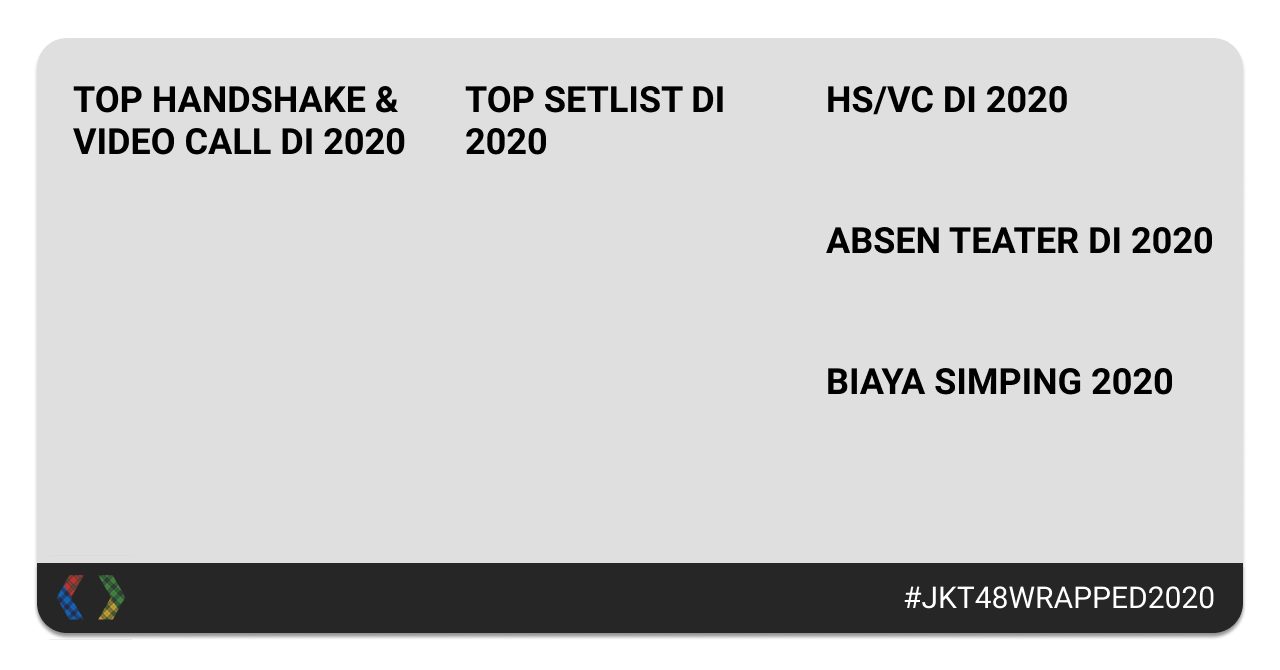
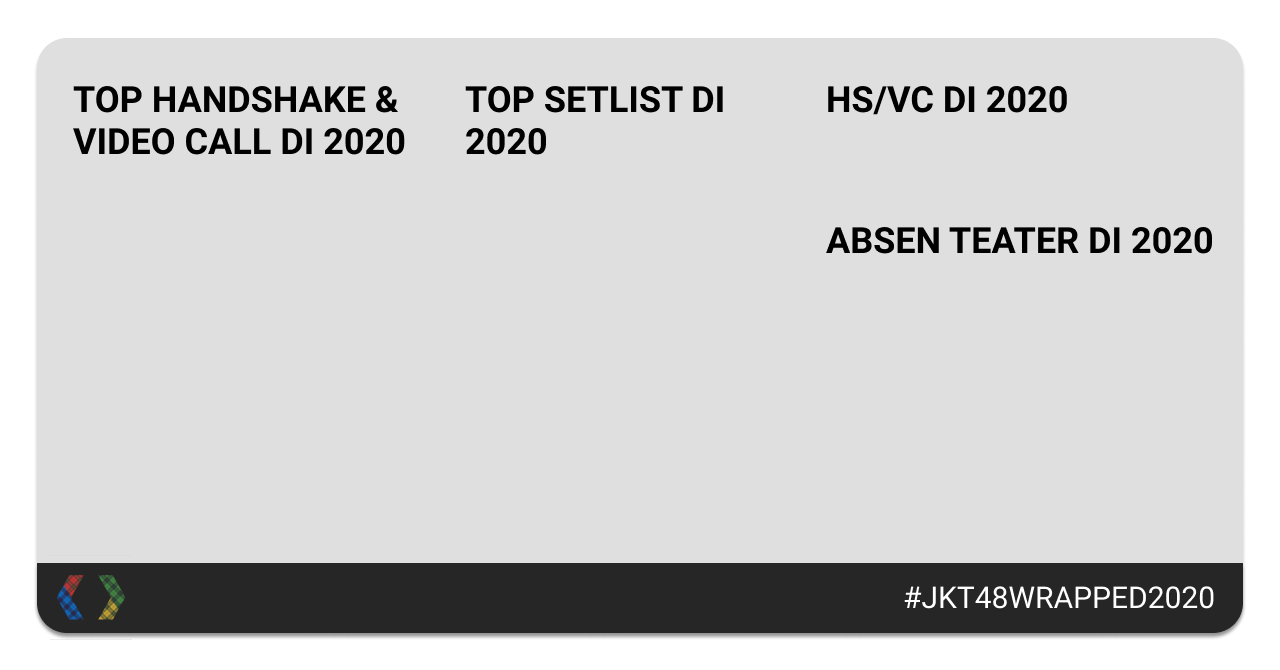
Removing totelExpense and change image to base64

Changed region(s): [[0.625, 0.5373, 0.9375, 0.597]]

diff --git a/libraries/image-generator.js b/libraries/image-generator.js
@@ -1,5 +1,6 @@
 const textToImage = require('text-to-image');
 const jimp = require('jimp');
+const { write } = require('jimp');
 
 /**
  * Generate image for og:image, and write image into folder outputs
@@ -8,10 +9,9 @@ const jimp = require('jimp');
  * @param {string} data.hsDetailText
  * @param {string} data.setlistDetailText
  * @param {string} data.theaterCountText
- * @param {string} data.totalExpenseText
  * @param {string} data.userNameText
- * @param {string} data.hsImage
- * @param {string} data.setlistImage
+ * @param {string} data.hsImage in base64
+ * @param {string} data.setlistImage in base64
  * 
  * @returns {Buffer} image
  */
@@ -45,15 +45,7 @@ const generateImage = async (data) => {
 		fontFamily: 'Roboto',
 		fontWeight: 'bold',
 		customHeight: '60',
-	});	
-	const totalExpense = await textToImage.generate(data.totalExpenseText, {
-		margin: 0,
-		bgColor: '#ffffff00',
-		fontSize: 50,
-		fontFamily: 'Roboto',
-		fontWeight: 'bold',
-		customHeight: '50',
-	});	
+	});
 	const userName = await textToImage.generate(data.userNameText, {
 		margin: 0,
 		bgColor: '#ffffff00',
@@ -63,9 +55,9 @@ const generateImage = async (data) => {
 		maxWidth: 700,
 	});
 
-	const baseImage = await jimp.read('../assets/base.png');
-	const hsImage = await jimp.read(data.hsImage);
-	const setlistImage = await jimp.read(data.setlistImage);
+	const baseImage = await jimp.read('./assets/base.png');
+	const hsImage = await jimp.read(Buffer.from(data.hsImage, 'base64'))
+	const setlistImage = await jjimp.read(Buffer.from(data.setlistImage, 'base64'))
 	
 	hsImage.crop(0, 0, hsImage.getWidth(), hsImage.getWidth())
 		.circle();
@@ -79,7 +71,6 @@ const generateImage = async (data) => {
 		.composite(await jimp.read(Buffer.from((setlistDetail.split(','))[1], 'base64')), 460, 465)
 		.composite(await jimp.read(Buffer.from((hsCount.split(','))[1], 'base64')), 824, 135)
 		.composite(await jimp.read(Buffer.from((theaterCount.split(','))[1], 'base64')), 824, 275)
-		.composite(await jimp.read(Buffer.from((totalExpense.split(','))[1], 'base64')), 824, 420)
 		.composite(await jimp.read(Buffer.from((userName.split(','))[1], 'base64')), 145, 585)
 		.getBuffer(jimp.MIME_PNG);
 

diff --git a/libraries/html-generator.js b/libraries/html-generator.js
@@ -8,7 +8,6 @@ const ejs = require('ejs');
  * @param {string} data.name
  * @param {string} data.hsCountText
  * @param {string} data.setlistCountText
- * @param {string} data.totalExpenseText
  * @param {Array} data.hsImages
  * @param {Array} data.hsTexts
  * @param {Array} data.setlistImages
